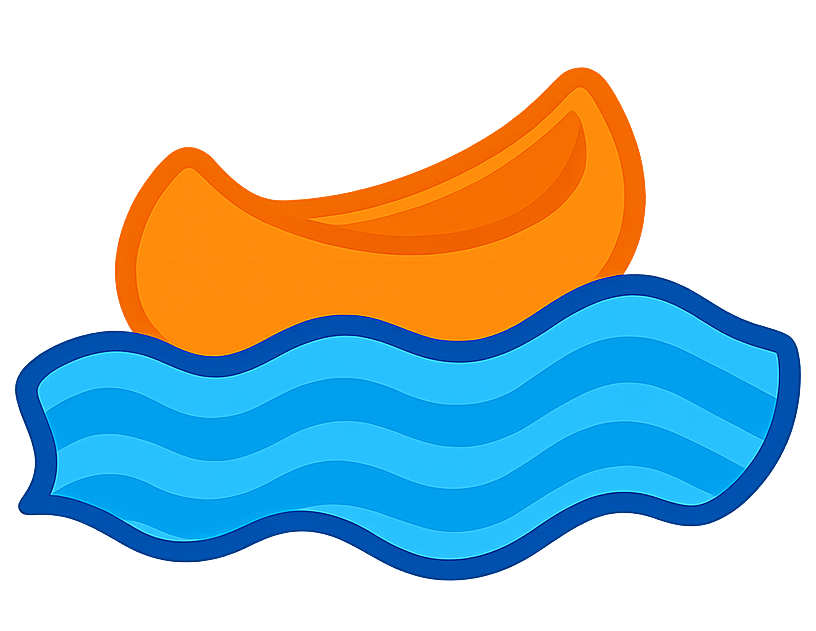
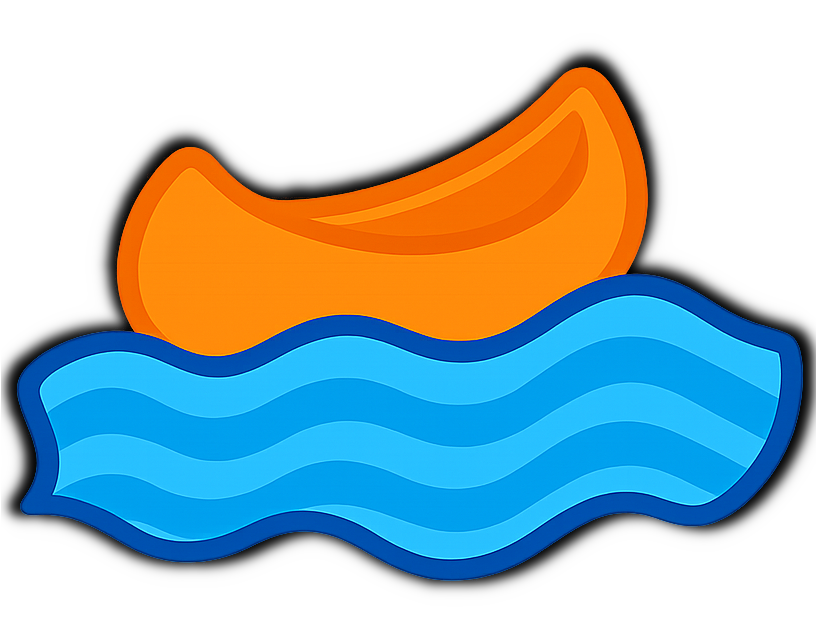
Black outlines for accents

diff --git a/generate.py b/generate.py
@@ -2,6 +2,104 @@ import os
 from typing import Tuple
 from PIL import Image
 
+character_image = './v2/character/snowflake.png'
+
+text_images = []
+for root,dirs,files in os.walk('./v2/text'):
+    for ff in files:
+        file_path = os.path.join(root,ff)
+        text_images.append(file_path)
+
+inputs = [
+    {
+        'name':'snowstream',
+        'background': (253, 111, 1),
+        'accent': {
+            'position': (0,.1)
+        },
+        'splash': {
+            'text':{
+                'position': (-0.025,0)
+            }
+        }
+    },
+    {
+        'name':'snowgroove',
+        'background': (172,3,244)
+    },
+    {
+        'name':'snowpage',
+        'background': (105, 127, 255),
+        'accent': {
+            'position': (0,.05)
+        }
+    },
+    {
+        'name':'snowtome',
+        'background': (255, 255, 255)
+    },
+    {
+        'name':'snowjam',
+        'background': (255, 255, 255)
+    },
+    {
+        'name':'snowcloud',
+        'background': (255, 255, 255)
+    },
+    {
+        'name':'snowblue',
+        'background': (255, 255, 255)
+    }
+]
+
+exports = [
+    {
+        'name': 'appicon',
+        'width': 1000,
+        'height': 1000,
+        'character': {
+            'position': (.25,.25)
+        },
+        'accent': {
+            'position': (.45,.45)
+        },
+        'text': {
+            'position': (.25,.45)
+        },
+        'scale': 1
+    },
+    {
+        'name': 'splash',
+        'width': 1000,
+        'height': 1000,
+        'character': {
+            'position': (.15,.25)
+        },
+        'accent': {
+            'position': (.5,.25)
+        },
+        'text': {
+            'position': (.2,.55)
+        },
+        'scale': 1
+    },
+    {
+        'name': 'tvbanner',
+        'width': 1200,
+        'height': 600,
+                'character': {
+            'position': (.275,.15)
+        },
+        'accent': {
+            'position': (.525,.15)
+        },
+        'text': {
+            'position': (.175,.25)
+        },
+        'scale': .5
+    },
+]
+
 def resize_keep_aspect(img, target_size):
     orig_w, orig_h = img.size
     target_w, target_h = target_size
@@ -24,83 +122,30 @@ def resize_keep_aspect(img, target_size):
 def create_composite(
     background_size:Tuple[int,int],
     background_color:Tuple[int,int,int],
-    image_a_path:str,
-    image_b_path:str,
-    image_c_path:str,
-    size_a:Tuple[int,int],
-    size_b:Tuple[int,int],
-    size_c:Tuple[int,int],
-    pos_a:Tuple[int,int],
-    pos_b:Tuple[int,int],
-    pos_c:Tuple[int,int],
+    character:dict,
+    accent:dict,
+    text:dict,
     output_path:str
 ):
     background = Image.new("RGB", background_size, background_color)
 
-    img_a = Image.open(image_a_path).convert("RGBA")
-    img_b = Image.open(image_b_path).convert("RGBA")
+    character_image = Image.open(character['image_path']).convert("RGBA")
+    account_image = Image.open(accent['image_path']).convert("RGBA")
+    text_image = None
     if not 'appicon' in output_path:
-        img_c = Image.open(image_c_path).convert("RGBA")
+        text_image = Image.open(text['image_path']).convert("RGBA")
 
-    img_a = resize_keep_aspect(img_a, size_a)
-    img_b = resize_keep_aspect(img_b, size_b)
+    character_image = resize_keep_aspect(character_image, character['size'])
+    account_image = resize_keep_aspect(account_image, accent['size'])
     if not 'appicon' in output_path:
-        img_c = resize_keep_aspect(img_c, size_c)
+        text_image = resize_keep_aspect(text_image, text['size'])
 
-    background.paste(img_a, pos_a, img_a)
-    background.paste(img_b, pos_b, img_b)
+    background.paste(character_image, character['position'], character_image)
+    background.paste(account_image, accent['position'], account_image)
     if not 'appicon' in output_path:
-        background.paste(img_c, pos_c, img_c)
+        background.paste(text_image, text['position'], text_image)
 
     background.save(output_path, "PNG")
-
-character_image = './v2/character/snowflake.png'
-
-text_images = []
-for root,dirs,files in os.walk('./v2/text'):
-    for ff in files:
-        file_path = os.path.join(root,ff)
-        text_images.append(file_path)
-
-inputs = [
-    ['snowstream',(219, 158, 44)],
-    ['snowgroove',(172,3,244)],
-    ['snowpage',(105, 127, 255)],
-    ['snowtome',(255, 255, 255)],
-    ['snowjam',(255, 255, 255)],
-    ['snowcloud',(255, 255, 255)],
-    ['snowblue',(255, 255, 255)]
-]
-
-exports = [
-    {
-        'name': 'appicon',
-        'width': 1000,
-        'height': 1000,
-        'pos_a': (.20,.20),
-        'pos_b': (.40,.40),
-        'pos_c': (.25,.45),
-        'scale': 1
-    },
-    {
-        'name': 'splash',
-        'width': 1000,
-        'height': 1000,
-        'pos_a': (.15,.25),
-        'pos_b': (.5,.25),
-        'pos_c': (.2,.55),
-        'scale': 1
-    },
-    {
-        'name': 'tvbanner',
-        'width': 1200,
-        'height': 600,
-        'pos_a': (.33,.15),
-        'pos_b': (.5,.15),
-        'pos_c': (.15,.25),
-        'scale': .5
-    },
-]
 
 export_count = 1
 export_total = len(exports) * len(inputs)
@@ -109,27 +154,48 @@ for export in exports:
     height = export['height']
     scale = export['scale']
     print(f"\nExporting {export['name']}")
-    for input in inputs:        
-        export_dir = os.path.join('./generated',input[0])
+    for input in inputs:
+        export_dir = os.path.join('./generated',input['name'])
         os.makedirs(export_dir,exist_ok=True)
         export_path = os.path.join(export_dir,f"{export['name']}.png")
         print(f"\t({export_count}/{export_total}) {export_path}")
         export_count += 1
+
+        character_position = export['character']['position']
+        if 'character' in input and 'position' in input['character']:
+            character_position = (character_position[0]+input['character']['position'][0],character_position[1]+input['character']['position'][1])
+        character = {
+            'image_path': './v2/character/snowflake.png',
+            'size': (int(width*scale*.33), None),
+            'position': (int(width*character_position[0]), int(height*character_position[1])),
+        }
+
+        accent_position = export['accent']['position']
+        if 'accent' in input and 'position' in input['accent']:
+            accent_position = (accent_position[0]+input['accent']['position'][0],accent_position[1]+input['accent']['position'][1])
+        accent = {
+            'image_path':f"./v2/accent/{input['name']}.png",
+            'size':(int(width*scale*.33), None),
+            'position': (int(width*accent_position[0]), int(height*accent_position[1])),
+        }
+
+        text_position = export['text']['position']
+        if 'text' in input and 'position' in input['text']:
+            text_position = (text_position[0]+input['text']['position'][0],text_position[1]+input['text']['position'][1])
+        if export['name'] in input and 'text' in input[export['name']] and 'position' in input[export['name']]['text']:
+            text_position = (text_position[0]+input[export['name']]['text']['position'][0],text_position[1]+input[export['name']]['text']['position'][1])
+        text = {
+            'image_path':f"./v2/text/{input['name']}.png",
+            'size':(int(width*.65), None),
+            'position': (int(width*text_position[0]), int(height*text_position[1])),
+        }
+
         create_composite(
             background_size=(width, height),
-            background_color=input[1],
-
-            image_a_path='./v2/character/snowflake.png',
-            size_a=(int(width*scale*.33), None),
-            pos_a=(int(width*export['pos_a'][0]), int(height*export['pos_a'][1])),
-
-            image_b_path=f"./v2/accent/{input[0]}.png",
-            size_b=(int(width*scale*.33), None),
-            pos_b=(int(width*export['pos_b'][0]), int(height*export['pos_b'][1])),
-
-            image_c_path=f"./v2/text/{input[0]}.png",
-            size_c=(int(width*.65), None),
-            pos_c=(int(width*export['pos_c'][0]), int(height*export['pos_c'][1])),
-
+            background_color=input['background'],
+            character=character,
+            accent=accent,
+            text=text,
             output_path=export_path
         )
+
